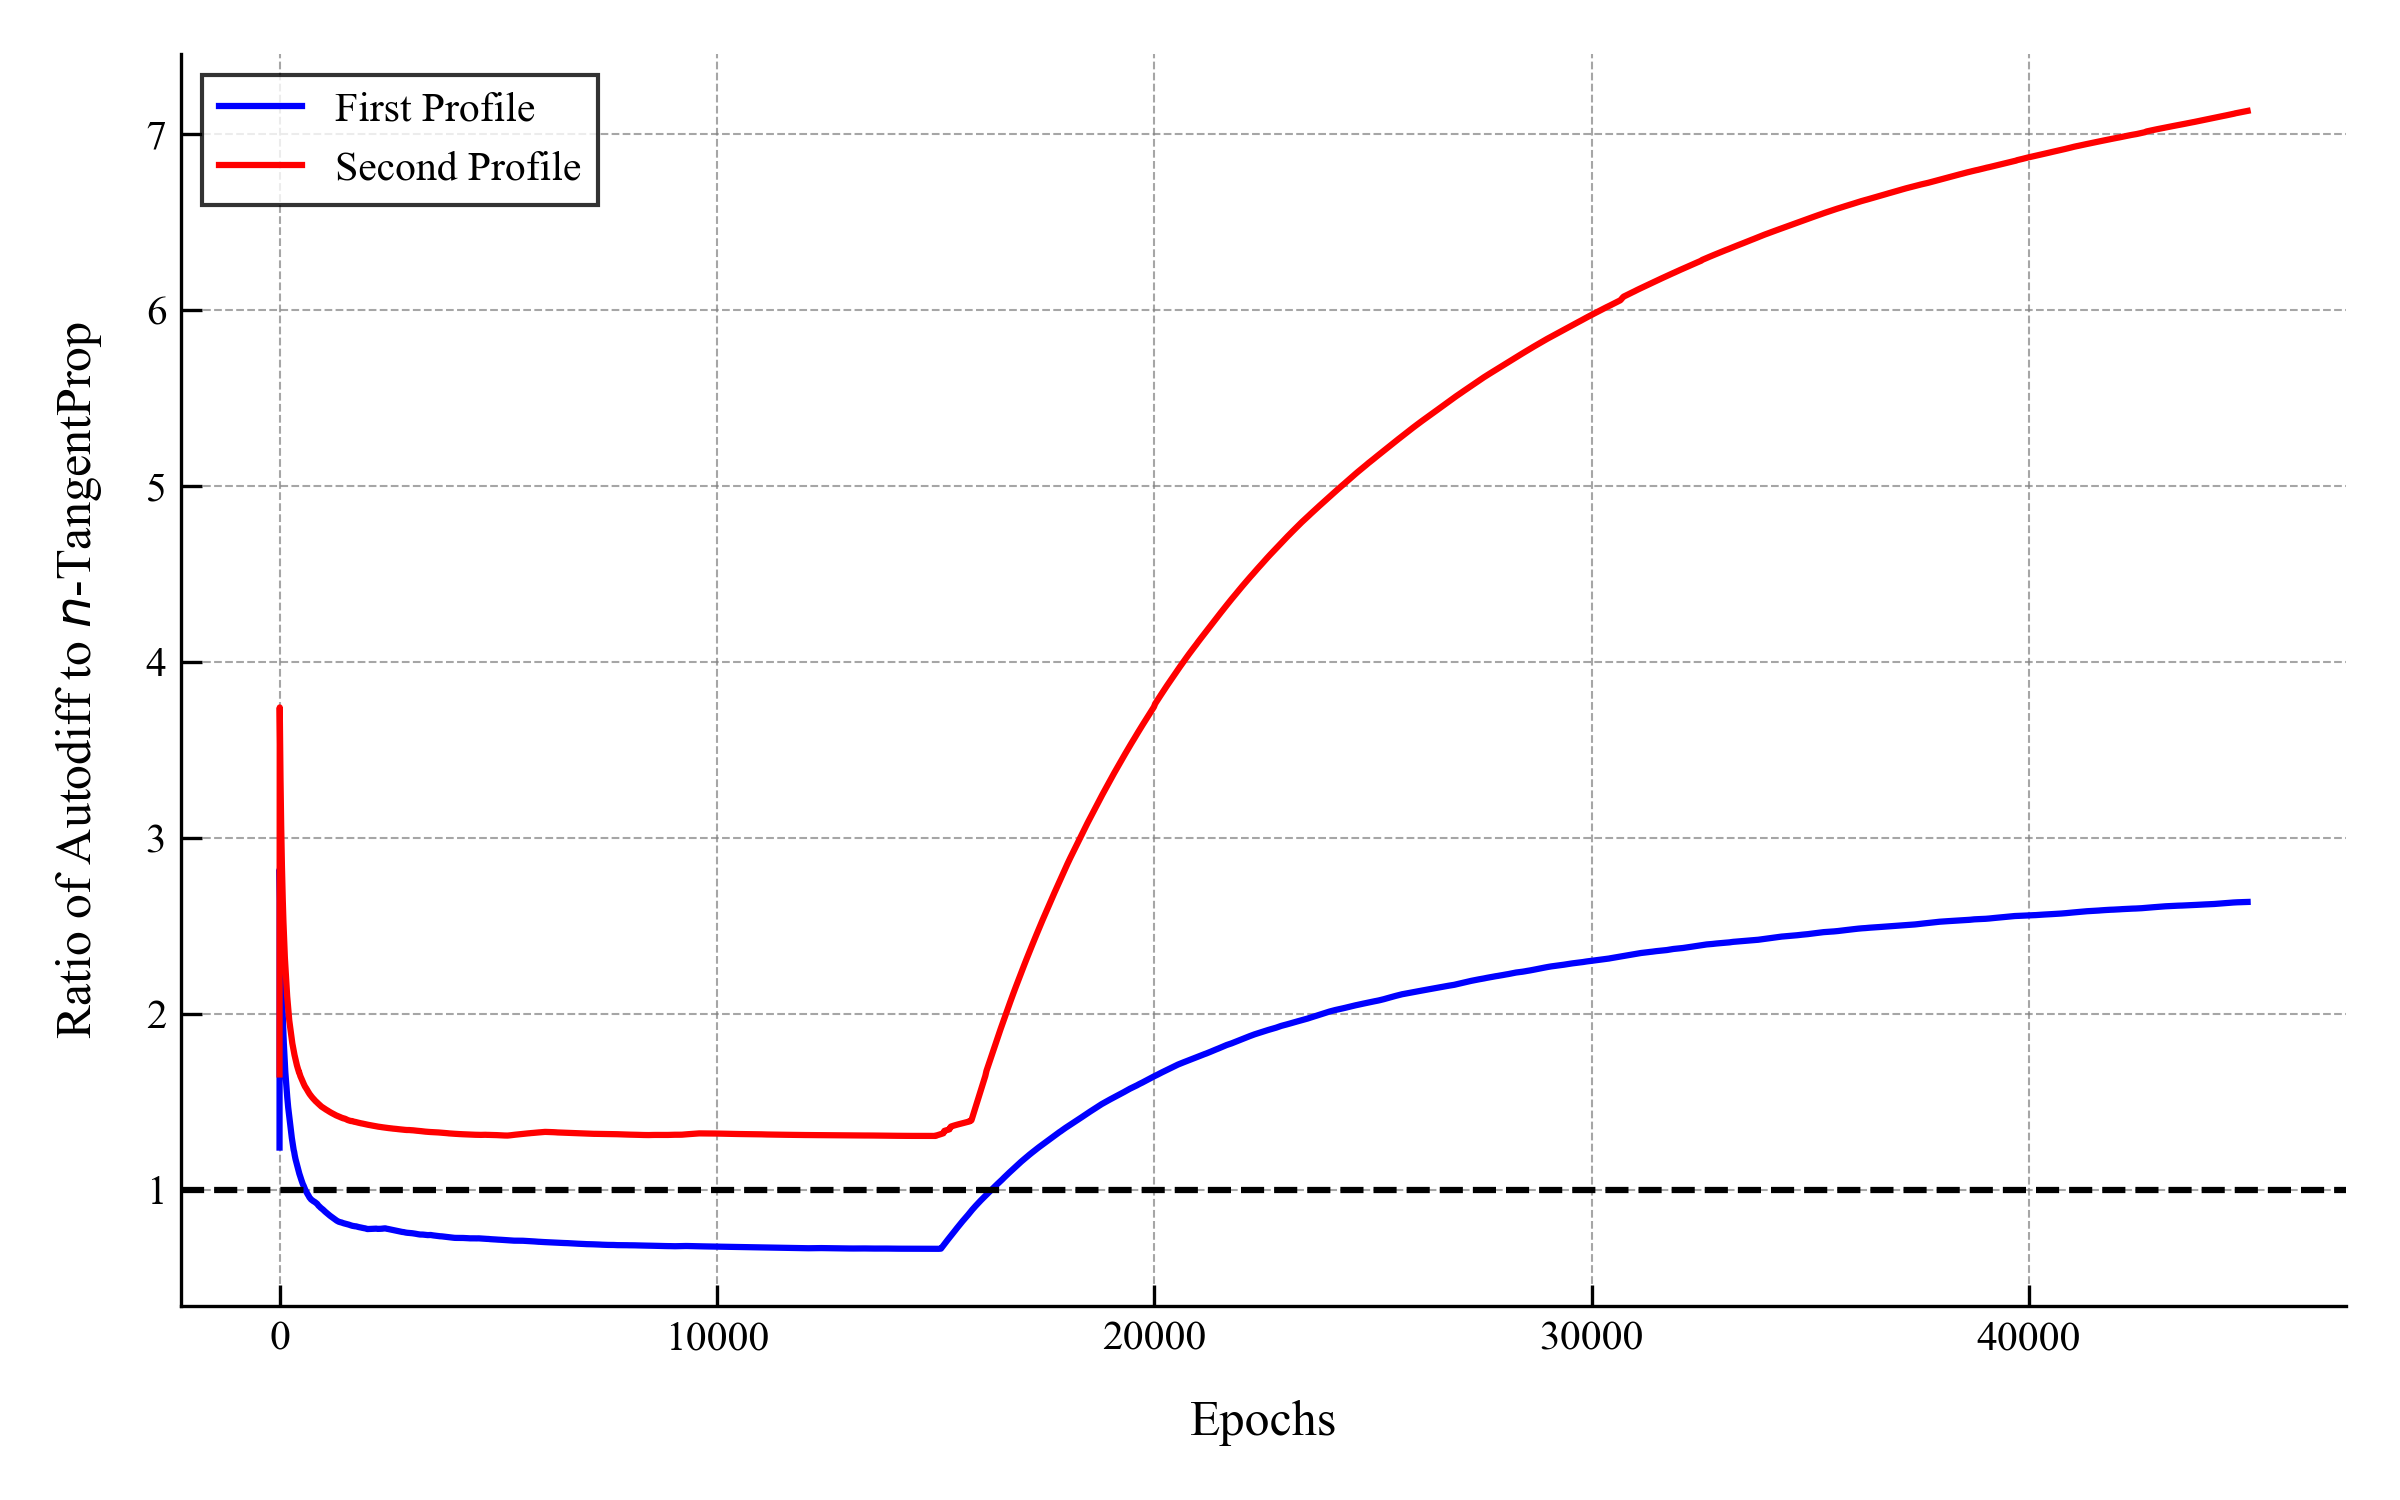
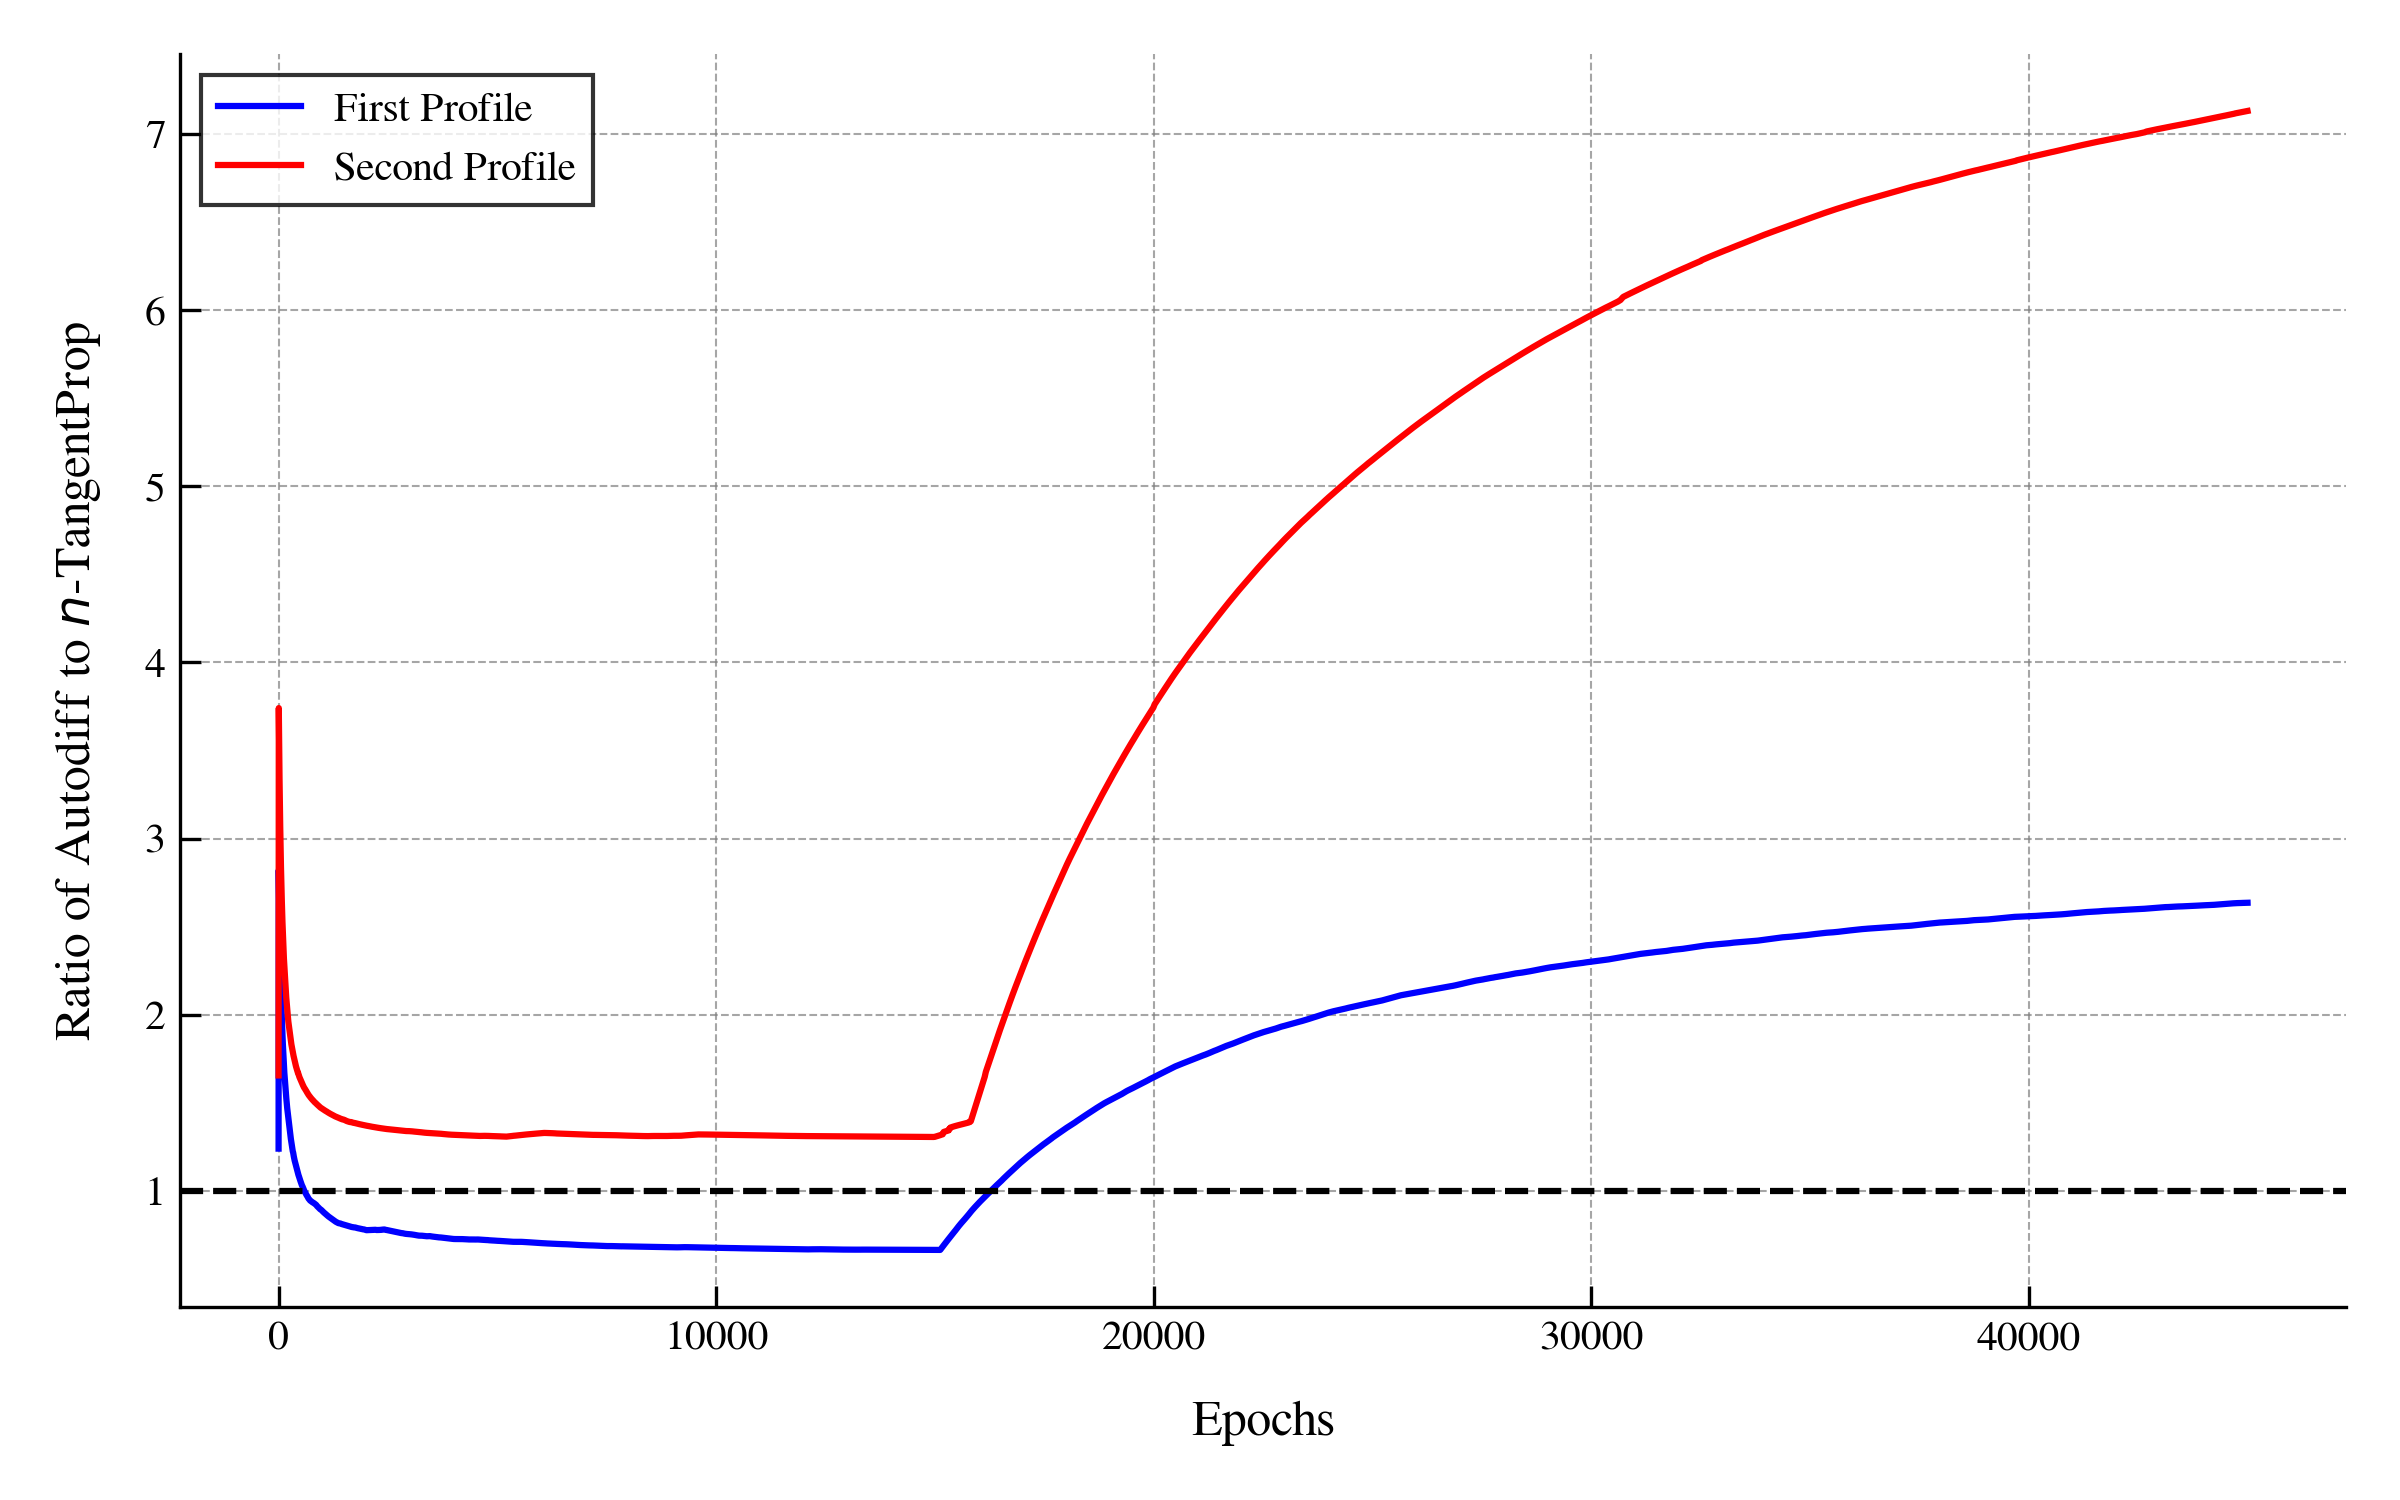
new figs, update for Ubuntu

diff --git a/generate_figs.py b/generate_figs.py
@@ -16,7 +16,7 @@ def plot_forward_backward(data: dict, key: str, save_path: str):
     ntp_times = [sum(data[i][key]['ntp']) / len(data[i][key]['ntp']) for i in x_data]
     ad_times = [sum(data[i][key]['ad']) / len(data[i][key]['ad']) for i in x_data]
 
-    fig, axs = plt.subplots(2, 1, figsize=(8, 8))
+    fig, axs = plt.subplots(1, 2, figsize=(12, 4))
 
     for ax in axs:
         ax.plot(x_data, ntp_times, label='$n$-TangentProp', marker='*', markeredgecolor='black', markersize=15, linestyle='-', c='b')
@@ -25,6 +25,7 @@ def plot_forward_backward(data: dict, key: str, save_path: str):
     axs[1].set_yscale('log')
     axs[0].set_ylabel("Average Runtime")
     axs[0].set_ylabel("Average Runtime (log Scale)")
+    axs[0].set_xlabel("Number of Derivatives")
     axs[1].set_xlabel("Number of Derivatives")
     axs[0].legend()
     axs[1].legend()
@@ -57,10 +58,11 @@ def plot_full_explore(data: dict, key: str, save_path: str):
     sorted_depths = sorted(list(depths))
     sorted_derivs = sorted(list(derivs))
 
-    fig, axs = plt.subplots(4, 3, figsize=(8, 12), dpi=300)
+    fig, axs = plt.subplots(3, 4, figsize=(12, 8), dpi=300)
 
-    for j, g in enumerate(grid):
-        for i, gg in enumerate(g):
+    for i, d in enumerate(sorted_depths):
+        for j, der in enumerate(sorted_derivs):
+            gg = grid[i][j]
             gg = {k: v for k, v in sorted(gg.items(), key=lambda x: x[0])}
             for bs, plot_data in gg.items():
                 if bs != 64 and bs != 256:
@@ -70,21 +72,20 @@ def plot_full_explore(data: dict, key: str, save_path: str):
 
                     y = [ad / ntp for ad, ntp in zip(y_ad, y_ntp)]
 
-                    # sort x and y according to x
                     x, y = zip(*sorted(zip(x, y)))
 
-                    axs[i][j].plot(x, y, label=f'bs={bs}', marker='*',  markeredgecolor='black', markersize=8)
-                    if i == 0:
-                        axs[i][j].set_title(f'Depth {sorted_depths[j]}')
-                    if i == 3:
-                        axs[i][j].set_xlabel('Width')
+                    axs[i][j].plot(x, y, label=f'bs={bs}', marker='*', markeredgecolor='black', markersize=8)
+                    
                     if j == 0:
-                        axs[i][j].set_ylabel('ad / ntp Ratio')
-                        axs[i][j].text(-0.5, 0.5, f'{sorted_derivs[i]} Derivatives', fontsize=15, ha='right', va='center', transform=axs[i][j].transAxes, rotation=65)
+                        axs[i][j].set_ylabel(f'Depth {sorted_depths[i]}')
+                    if i == 2:
+                        axs[i][j].set_xlabel(f'ad / ntp Ratio')
+                    if i == 0:
+                        axs[i][j].set_title(f'{sorted_derivs[j]} Derivatives')
 
-                    if i == 0 or i == 1:
+                    if j == 0 or j == 1:
                         axs[i][j].set_ylim([0., 2.5])
-                    elif i == 2:
+                    elif j == 2:
                         axs[i][j].set_ylim([0., 5.])
                     else:
                         axs[i][j].set_ylim([0., 20.])
@@ -107,7 +108,7 @@ def plot_profile(
     profile_name: str,
 ):
     n_derivs = len(sol)
-    n_rows = n_derivs // 2 + 2
+    n_rows = 3
 
     Uderivs = compute_exact_implicit(
         torch.linspace(-1, 1, 100).reshape(-1, 1),
@@ -121,18 +122,29 @@ def plot_profile(
     Uderivs = Uderivs[1:]
     x = torch.linspace(-2., 2., sol[0].shape[0])
 
-    fig = plt.figure(figsize=(10, 3 * n_rows))
-    gs = gridspec.GridSpec(n_rows, 2, height_ratios=([2/3] * (n_rows - 2)) + [1, 1])
+    fig = plt.figure(figsize=(12, 5))
 
-    axs = []
-    row = 0
-    for _ in range(n_rows - 2):
-        axs.append(fig.add_subplot(gs[row, 0]))
-        axs.append(fig.add_subplot(gs[row, 1]))
-        row += 1
+    if n_derivs <= 4:
+        gs = gridspec.GridSpec(2, n_derivs, height_ratios=[1, 1])
 
-    axs.append(fig.add_subplot(gs[-2, :]))
-    axs.append(fig.add_subplot(gs[-1, :]))
+        axs = []
+        for i in range(n_derivs):
+            axs.append(fig.add_subplot(gs[0, i]))
+
+        axs.append(fig.add_subplot(gs[-1, :2]))
+        axs.append(fig.add_subplot(gs[-1, 2:]))
+
+    else:
+        gs = gridspec.GridSpec(n_rows, n_derivs // 2, height_ratios=[1, 1, 1])
+
+        axs = []
+        for row in range(2):
+            for i in range(n_derivs // 2):
+                axs.append(fig.add_subplot(gs[row, i]))
+
+        axs.append(fig.add_subplot(gs[-1, :n_derivs // 4]))
+        axs.append(fig.add_subplot(gs[-1, n_derivs // 4:]))
+
 
     deriv_names = [
         'Profile', 'First Derivative', 'Second Derivative', 'Third Derivative',

diff --git a/ntp/mpl_rc.py b/ntp/mpl_rc.py
@@ -3,7 +3,7 @@ import matplotlib.pyplot as plt
 def update_rcParams():
     plt.rcParams.update({
         'font.family': 'serif',
-        'font.serif': ['Times New Roman'],
+        'font.serif': ['FreeSerif'],
         'font.size': 12,
         'axes.titlesize': 14,
         'axes.labelsize': 12,
